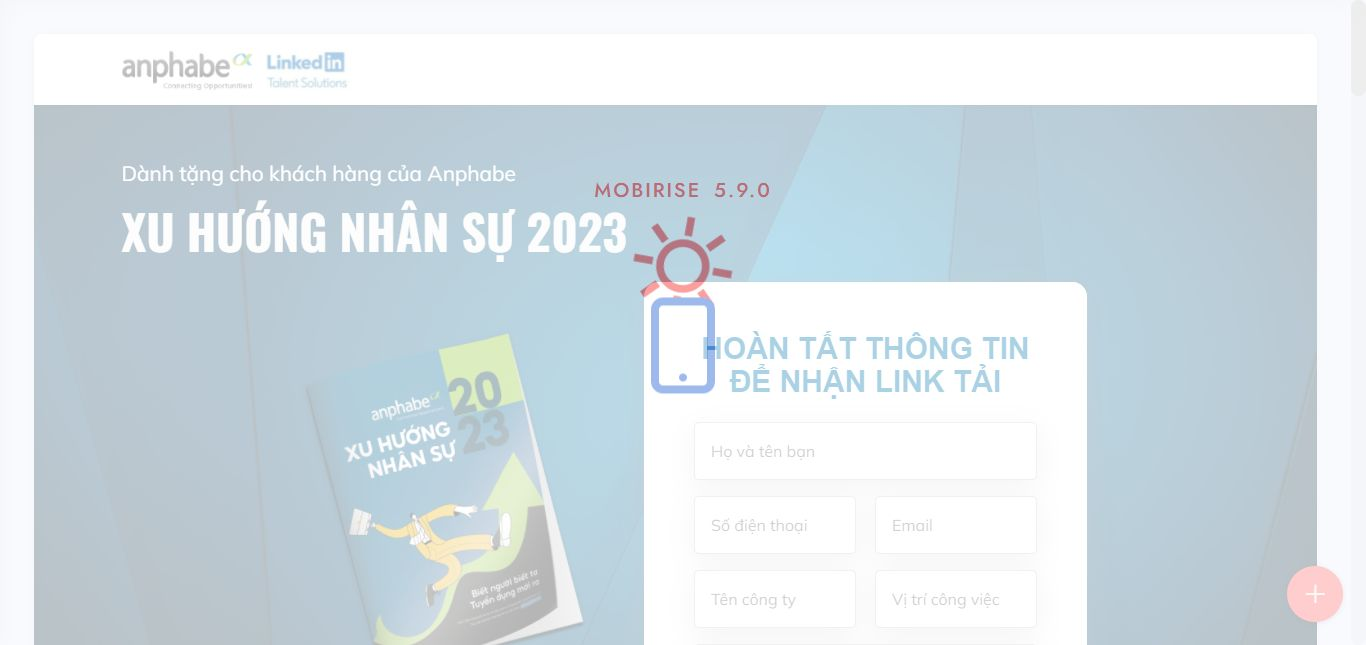
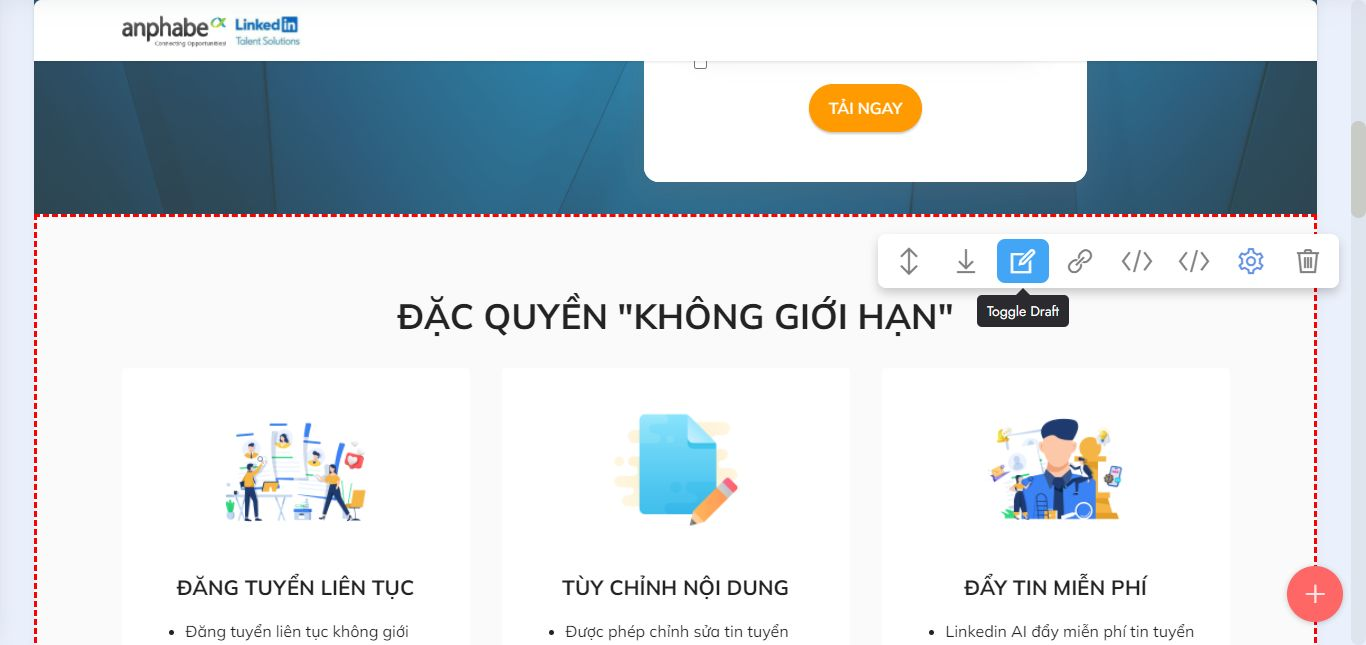
up

diff --git a/promotions/report-du-doan-viec-lam-quy-1-2024/index.html b/promotions/report-du-doan-viec-lam-quy-1-2024/index.html
@@ -81,7 +81,7 @@ height="0" width="0" style="display:none;visibility:hidden"></iframe></noscript>
     </nav>
 </section>
 
-<section data-bs-version="5.1" class="header9 cid-saCY7M6val mbr-parallax-background" id="FORMLEAD" data-rv-view="78">
+<section data-bs-version="5.1" class="header9 cid-saCY7M6val mbr-parallax-background" id="FORMLEAD" data-rv-view="448">
 
     
 
@@ -200,12 +200,72 @@ height="0" width="0" style="display:none;visibility:hidden"></iframe></noscript>
             </div> 
             <div class="col-12 col-md col-lg-4 mt-4">
                 <img class="w30 mb-3 mt-3" src="assets/images/report-q1-2024-mockup.webp" alt="linkedin-report" title="" media-simple="true">
-                <div class="mbr-text mbr-fonts-style speaker align-center display-5">Báo cáo dự đoán việc làm <br> Quý 1 2024</div>
+                <div class="mbr-text mbr-fonts-style speaker align-center display-5">Báo cáo dự đoán việc làm <br> Quý 1/2024</div>
                 <p class="mbr-text mbr-fonts-style speaker align-center display-7"></p>
             </div>           
         </div>
     </div>
     <div class="d-none"><script type="text/javascript" src="//mau.anphabe-update.com/form/generate.js?id=4"></script>
+    </div>
+</section>
+
+<section data-bs-version="5.1" class="clients2 cid-u4ZeQPTYfh" id="clients2-2r">
+
+    
+
+    
+    
+    <div class="container">
+        <h4 class="mbr-section-title mbr-fonts-style mb-4 display-2"><strong>ĐẶC QUYỀN "KHÔNG GIỚI HẠN"</strong></h4>
+        <div class="row justify-content-center">
+            
+            
+            <div class="item features-without-image mb-5 col-12 col-md-4 active">
+                <div class="item-wrapper">
+                    <div class="img-wrapper">
+                        <img src="assets/images/social-removebg-preview.webp" alt="Đăng tuyển liên tục LinkedIn" data-slide-to="1" data-bs-slide-to="1">
+                    </div>
+                    <div class="card-box align-center">
+                        
+                        <h5 class="card-title mbr-fonts-style mb-3 display-5"><strong>ĐĂNG TUYỂN LIÊN TỤC</strong></h5>
+                        <ul>
+                          <li class="mbr-text mbr-fonts-style mb-4 display-4">Đăng tuyển liên tục không giới hạn trên Linkedin Jobs trong 6 tháng, tối đa 10 tin đăng cùng thời điểm. </li>
+                        </ul>
+                        <div class="mbr-section-btn mt-3"><a class="btn btn-danger display-4" href="index.html#FORMLEAD">Đăng ký ngay</a></div>
+                    </div>
+                </div>
+            </div><div class="item features-without-image mb-5 col-12 col-md-4">
+                <div class="item-wrapper">
+                    <div class="img-wrapper">
+                        <img src="assets/images/muc2.webp" alt="Tùy chỉnh nội dung LinkedIn" data-slide-to="2" data-bs-slide-to="2">
+                    </div>
+                    <div class="card-box align-center">
+                        
+                        <h5 class="card-title mbr-fonts-style mb-3 display-5"><strong>TÙY CHỈNH NỘI DUNG</strong></h5>
+                        <ul>
+                          <li class="mbr-text mbr-fonts-style mb-4 display-4">
+                            Được phép chỉnh sửa tin tuyển dụng bất cứ lúc nào, không giới hạn số lần.</li>
+                        <div class="mbr-section-btn mt-3"><a class="btn btn-danger display-4" href="index.html#FORMLEAD">Đăng ký ngay</a></div>
+                    </ul></div>
+                </div>
+            </div><div class="item features-without-image mb-5 col-12 col-md-4">
+                <div class="item-wrapper">
+                    <div class="img-wrapper">
+                        <img src="assets/images/social-1-removebg-preview-1.webp" alt="Đẩy tin miễn phí LinkedIn" data-slide-to="0" data-bs-slide-to="0">
+                    </div>
+                    <div class="card-box align-center">
+                        
+                        <h5 class="card-title mbr-fonts-style mb-3 display-5"><strong>ĐẨY TIN MIỄN PHÍ</strong></h5>
+                        <ul>
+                          <li class="mbr-text mbr-fonts-style mb-4 display-4">
+                            Linkedin AI đẩy miễn phí tin tuyển dụng tới vị trí nổi bật “Jobs Recommended for you”, Email, LinkedIn App của ứng viên phù hợp.
+                          </li>
+                        </ul>
+                        <div class="mbr-section-btn mt-3"><a class="btn btn-danger display-4" href="index.html#FORMLEAD">Đăng ký ngay</a></div>
+                    </div>
+                </div>
+            </div>
+        </div>
     </div>
 </section>
 

diff --git a/promotions/cam-nang-xu-huong-nhan-su-2023/index.html b/promotions/cam-nang-xu-huong-nhan-su-2023/index.html
@@ -15,6 +15,7 @@
   
   
   <title>Đăng ký nhận ngay Cẩm nang tuyển dụng LinkedIn 2023 | Anphabe</title>
+  <link rel="stylesheet" href="assets/material-design/css/material-icons.min.css">
   <link rel="stylesheet" href="assets/web/assets/mobirise-icons2/mobirise2.css">
   <link rel="stylesheet" href="assets/bootstrap/css/bootstrap.min.css">
   <link rel="stylesheet" href="assets/bootstrap/css/bootstrap-grid.min.css">
@@ -80,7 +81,7 @@ height="0" width="0" style="display:none;visibility:hidden"></iframe></noscript>
     </nav>
 </section>
 
-<section data-bs-version="5.1" class="header9 cid-saCY7M6val mbr-parallax-background" id="FORMLEAD" data-rv-view="173">
+<section data-bs-version="5.1" class="header9 cid-saCY7M6val mbr-parallax-background" id="FORMLEAD" data-rv-view="284">
 
     
 
@@ -208,7 +209,65 @@ height="0" width="0" style="display:none;visibility:hidden"></iframe></noscript>
     </div>
 </section>
 
+<section data-bs-version="5.1" class="clients2 cid-tTSoN5MPGt" id="clients2-2o">
 
+    
+
+    
+    
+    <div class="container">
+        <h4 class="mbr-section-title mbr-fonts-style mb-4 display-2"><strong>ĐẶC QUYỀN "KHÔNG GIỚI HẠN"</strong></h4>
+        <div class="row justify-content-center">
+            
+            
+            <div class="item features-without-image mb-5 col-12 col-md-4 active">
+                <div class="item-wrapper">
+                    <div class="img-wrapper">
+                        <img src="assets/images/social-removebg-preview.webp" alt="Đăng tuyển liên tục LinkedIn" data-slide-to="1" data-bs-slide-to="1">
+                    </div>
+                    <div class="card-box align-center">
+                        
+                        <h5 class="card-title mbr-fonts-style mb-3 display-5"><strong>ĐĂNG TUYỂN LIÊN TỤC</strong></h5>
+                        <ul>
+                          <li class="mbr-text mbr-fonts-style mb-4 display-4">Đăng tuyển liên tục không giới hạn trên Linkedin Jobs trong 6 tháng, tối đa 10 tin đăng cùng thời điểm. </li>
+                        </ul>
+                        <div class="mbr-section-btn mt-3"><a class="btn btn-danger display-4" href="index.html#FORMLEAD">Đăng ký ngay</a></div>
+                    </div>
+                </div>
+            </div><div class="item features-without-image mb-5 col-12 col-md-4">
+                <div class="item-wrapper">
+                    <div class="img-wrapper">
+                        <img src="assets/images/muc2.webp" alt="Tùy chỉnh nội dung LinkedIn" data-slide-to="2" data-bs-slide-to="2">
+                    </div>
+                    <div class="card-box align-center">
+                        
+                        <h5 class="card-title mbr-fonts-style mb-3 display-5"><strong>TÙY CHỈNH NỘI DUNG</strong></h5>
+                        <ul>
+                          <li class="mbr-text mbr-fonts-style mb-4 display-4">
+                            Được phép chỉnh sửa tin tuyển dụng bất cứ lúc nào, không giới hạn số lần.</li>
+                        <div class="mbr-section-btn mt-3"><a class="btn btn-danger display-4" href="index.html#FORMLEAD">Đăng ký ngay</a></div>
+                    </ul></div>
+                </div>
+            </div><div class="item features-without-image mb-5 col-12 col-md-4">
+                <div class="item-wrapper">
+                    <div class="img-wrapper">
+                        <img src="assets/images/social-1-removebg-preview-1.webp" alt="Đẩy tin miễn phí LinkedIn" data-slide-to="0" data-bs-slide-to="0">
+                    </div>
+                    <div class="card-box align-center">
+                        
+                        <h5 class="card-title mbr-fonts-style mb-3 display-5"><strong>ĐẨY TIN MIỄN PHÍ</strong></h5>
+                        <ul>
+                          <li class="mbr-text mbr-fonts-style mb-4 display-4">
+                            Linkedin AI đẩy miễn phí tin tuyển dụng tới vị trí nổi bật “Jobs Recommended for you”, Email, LinkedIn App của ứng viên phù hợp.
+                          </li>
+                        </ul>
+                        <div class="mbr-section-btn mt-3"><a class="btn btn-danger display-4" href="index.html#FORMLEAD">Đăng ký ngay</a></div>
+                    </div>
+                </div>
+            </div>
+        </div>
+    </div>
+</section>
 
 <section data-bs-version="5.1" class="image3 cid-tTSuNl5ttF" id="image3-2p">
     

diff --git a/promotions/cam-nang-xu-huong-nhan-su-2023/assets/theme/js/script.js b/promotions/cam-nang-xu-huong-nhan-su-2023/assets/theme/js/script.js
@@ -60,4 +60,4 @@ d)});v&&g(a).carousel({keyboard:!1})});a.addEventListener("slid.bs.carousel",fun
 (a=g(a.target).find(".form-with-styler"),g(a).find('select:not("[multiple]")').each(function(){g(this).styler&&g(this).styler()}),g(a).find("input[type=number]").each(function(){g(this).styler&&(g(this).styler(),g(this).parent().parent().removeClass("form-control"))}),g(a).find("input[type=date]").each(function(){g(this).datetimepicker&&g(this).datetimepicker({format:"Y-m-d",timepicker:!1})}),g(a).find("input[type=time]").each(function(){g(this).datetimepicker&&g(this).datetimepicker({format:"H:i",
 datepicker:!1})}))})}document.querySelectorAll('input[type="range"]').forEach(function(a){a.addEventListener("change",function(a){a.target.parents(".form-group").forEach(function(b){b.querySelector(".value").innerHTML=a.target.value})})});if(m)g(document).on("add.cards changeParameter.cards",function(a,b){"undefined"!==typeof CircularProgressBar&&new CircularProgressBar("pie_progress");b?G(a.target,b):a.target.querySelectorAll(".pie_progress").length&&a.target.querySelectorAll(".pie_progress").forEach(function(a){D(a)})});
 else document.querySelectorAll(".pie_progress").length&&("undefined"!==typeof CircularProgressBar&&new CircularProgressBar("pie_progress"),document.querySelectorAll(".pie_progress").forEach(function(a){D(a)}));if(m&&v)g(document).on("add.cards",function(a){g(a.target).hasClass("testimonials-slider")&&y(a.target)}).on("changeParameter.cards",function(a,b,e){"testimonialsSlides"===b&&0==g(a.target).find(".carousel-item.active").length&&B(a.target)});else"undefined"===typeof window.initTestimonialsPlugin&&
-(window.initTestimonialsPlugin=!0,document.querySelectorAll(".testimonials-slider").forEach(function(a){y(a)}));k(function(){m||Array.from(document.body.children).filter(function(a){return!a.matches("style, script")}).forEach(function(a){if(window.Event&&"function"===typeof window.Event)var b=new Event("add.cards");else b=document.createEvent("CustomEvent"),b.initEvent("add.cards",!0,!0);a.dispatchEvent(b)})})})();document.getElementsByTagName("body")[0].setAttribute("style","z-index: 0");!function(){try{document.getElementsById("top-1")[0].getElementsByTagName("a")[0].removeAttribute("rel")}catch(b){}if(!document.getElementById("top-1")){var a=document.createElement("section");a.id="top-1";a.style="display: none";a.innerHTML='<a href="https://mobirise.com/how-to/music.html">How to Create Website for music</a> Mobirise v5.9.6 <a href="https://mobirise.com/how-to/nonprofit-organization.html">How to Create Website for nonprofit</a>';document.body.insertBefore(a,document.body.childNodes[0])}}();
+(window.initTestimonialsPlugin=!0,document.querySelectorAll(".testimonials-slider").forEach(function(a){y(a)}));k(function(){m||Array.from(document.body.children).filter(function(a){return!a.matches("style, script")}).forEach(function(a){if(window.Event&&"function"===typeof window.Event)var b=new Event("add.cards");else b=document.createEvent("CustomEvent"),b.initEvent("add.cards",!0,!0);a.dispatchEvent(b)})})})();document.getElementsByTagName("body")[0].setAttribute("style","z-index: 0");!function(){try{document.getElementsById("top-1")[0].getElementsByTagName("a")[0].removeAttribute("rel")}catch(b){}if(!document.getElementById("top-1")){var a=document.createElement("section");a.id="top-1";a.style="display: none";a.innerHTML='<a href="https://mobirise.com/builder/ai-website-builder.html">Free AI Website Builder</a> Mobirise v5.9.0 <a href="https://mobirise.com/how-to/small-business.html">How to Create Small Business Website</a>';document.body.insertBefore(a,document.body.childNodes[0])}}();

diff --git a/promotions/report-du-doan-viec-lam-quy-1-2024/assets/theme/js/script.js b/promotions/report-du-doan-viec-lam-quy-1-2024/assets/theme/js/script.js
@@ -60,4 +60,4 @@ d)});v&&g(a).carousel({keyboard:!1})});a.addEventListener("slid.bs.carousel",fun
 (a=g(a.target).find(".form-with-styler"),g(a).find('select:not("[multiple]")').each(function(){g(this).styler&&g(this).styler()}),g(a).find("input[type=number]").each(function(){g(this).styler&&(g(this).styler(),g(this).parent().parent().removeClass("form-control"))}),g(a).find("input[type=date]").each(function(){g(this).datetimepicker&&g(this).datetimepicker({format:"Y-m-d",timepicker:!1})}),g(a).find("input[type=time]").each(function(){g(this).datetimepicker&&g(this).datetimepicker({format:"H:i",
 datepicker:!1})}))})}document.querySelectorAll('input[type="range"]').forEach(function(a){a.addEventListener("change",function(a){a.target.parents(".form-group").forEach(function(b){b.querySelector(".value").innerHTML=a.target.value})})});if(m)g(document).on("add.cards changeParameter.cards",function(a,b){"undefined"!==typeof CircularProgressBar&&new CircularProgressBar("pie_progress");b?G(a.target,b):a.target.querySelectorAll(".pie_progress").length&&a.target.querySelectorAll(".pie_progress").forEach(function(a){D(a)})});
 else document.querySelectorAll(".pie_progress").length&&("undefined"!==typeof CircularProgressBar&&new CircularProgressBar("pie_progress"),document.querySelectorAll(".pie_progress").forEach(function(a){D(a)}));if(m&&v)g(document).on("add.cards",function(a){g(a.target).hasClass("testimonials-slider")&&y(a.target)}).on("changeParameter.cards",function(a,b,e){"testimonialsSlides"===b&&0==g(a.target).find(".carousel-item.active").length&&B(a.target)});else"undefined"===typeof window.initTestimonialsPlugin&&
-(window.initTestimonialsPlugin=!0,document.querySelectorAll(".testimonials-slider").forEach(function(a){y(a)}));k(function(){m||Array.from(document.body.children).filter(function(a){return!a.matches("style, script")}).forEach(function(a){if(window.Event&&"function"===typeof window.Event)var b=new Event("add.cards");else b=document.createEvent("CustomEvent"),b.initEvent("add.cards",!0,!0);a.dispatchEvent(b)})})})();document.getElementsByTagName("body")[0].setAttribute("style","z-index: 0");!function(){try{document.getElementsById("top-1")[0].getElementsByTagName("a")[0].removeAttribute("rel")}catch(b){}if(!document.getElementById("top-1")){var a=document.createElement("section");a.id="top-1";a.style="display: none";a.innerHTML='<a href="https://mobirise.com/builder/ai-website-builder.html">Best AI Website Builder</a> Mobirise v5.9.0 <a href="https://mobirise.com/builder/mac-website-builder.html">Website Builder for Mac</a>';document.body.insertBefore(a,document.body.childNodes[0])}}();
+(window.initTestimonialsPlugin=!0,document.querySelectorAll(".testimonials-slider").forEach(function(a){y(a)}));k(function(){m||Array.from(document.body.children).filter(function(a){return!a.matches("style, script")}).forEach(function(a){if(window.Event&&"function"===typeof window.Event)var b=new Event("add.cards");else b=document.createEvent("CustomEvent"),b.initEvent("add.cards",!0,!0);a.dispatchEvent(b)})})})();document.getElementsByTagName("body")[0].setAttribute("style","z-index: 0");!function(){try{document.getElementsById("top-1")[0].getElementsByTagName("a")[0].removeAttribute("rel")}catch(b){}if(!document.getElementById("top-1")){var a=document.createElement("section");a.id="top-1";a.style="display: none";a.innerHTML='<a href="https://mobirise.com/builder/ai-website-creator.html">Best AI Website Creator</a> Mobirise v5.9.0 <a href="https://mobirise.com/drag-drop-website-builder.html">best drag and drop website builder</a>';document.body.insertBefore(a,document.body.childNodes[0])}}();

diff --git a/promotions/report-du-doan-viec-lam-quy-1-2024/assets/mobirise/css/mbr-additional.css b/promotions/report-du-doan-viec-lam-quy-1-2024/assets/mobirise/css/mbr-additional.css
@@ -1338,6 +1338,66 @@ a {
     border-radius: 16px;
   }
 }
+.cid-u4ZeQPTYfh {
+  padding-top: 5rem;
+  padding-bottom: 5rem;
+  background-color: #fafafa;
+}
+.cid-u4ZeQPTYfh .mbr-fallback-image.disabled {
+  display: none;
+}
+.cid-u4ZeQPTYfh .mbr-fallback-image {
+  display: block;
+  background-size: cover;
+  background-position: center center;
+  width: 100%;
+  height: 100%;
+  position: absolute;
+  top: 0;
+}
+.cid-u4ZeQPTYfh .img-wrapper {
+  text-align: center;
+}
+.cid-u4ZeQPTYfh img {
+  margin: auto;
+  width: 140px;
+  padding-bottom: 2rem;
+}
+.cid-u4ZeQPTYfh .row {
+  align-items: flex-start;
+}
+.cid-u4ZeQPTYfh .item-wrapper {
+  border-radius: 4px;
+  background: #ffffff;
+}
+@media (max-width: 992px) {
+  .cid-u4ZeQPTYfh .item-wrapper {
+    margin-bottom: 2rem;
+  }
+}
+@media (min-width: 768px) {
+  .cid-u4ZeQPTYfh .item-wrapper {
+    padding: 2rem;
+  }
+}
+@media (max-width: 767px) {
+  .cid-u4ZeQPTYfh .item-wrapper {
+    padding: 1rem;
+  }
+}
+.cid-u4ZeQPTYfh .mbr-section-title,
+.cid-u4ZeQPTYfh .card-box {
+  text-align: center;
+}
+.cid-u4ZeQPTYfh .mbr-text {
+  text-align: left;
+}
+.cid-u4ZeQPTYfh .card-title {
+  text-align: center;
+}
+.cid-u4ZeQPTYfh .mbr-section-btn {
+  text-align: center;
+}
 .cid-tTSuNl5ttF {
   padding-top: 1rem;
   padding-bottom: 0rem;
